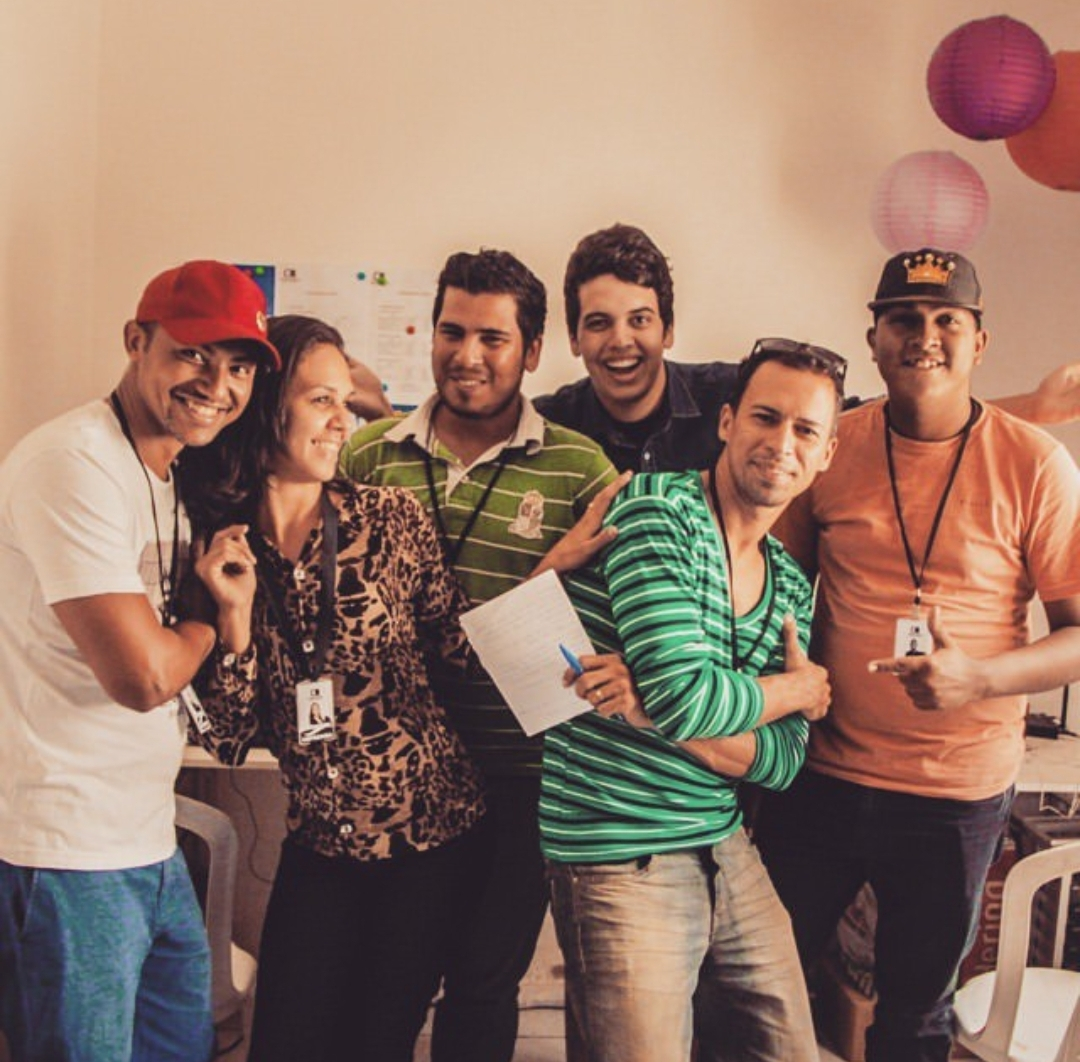
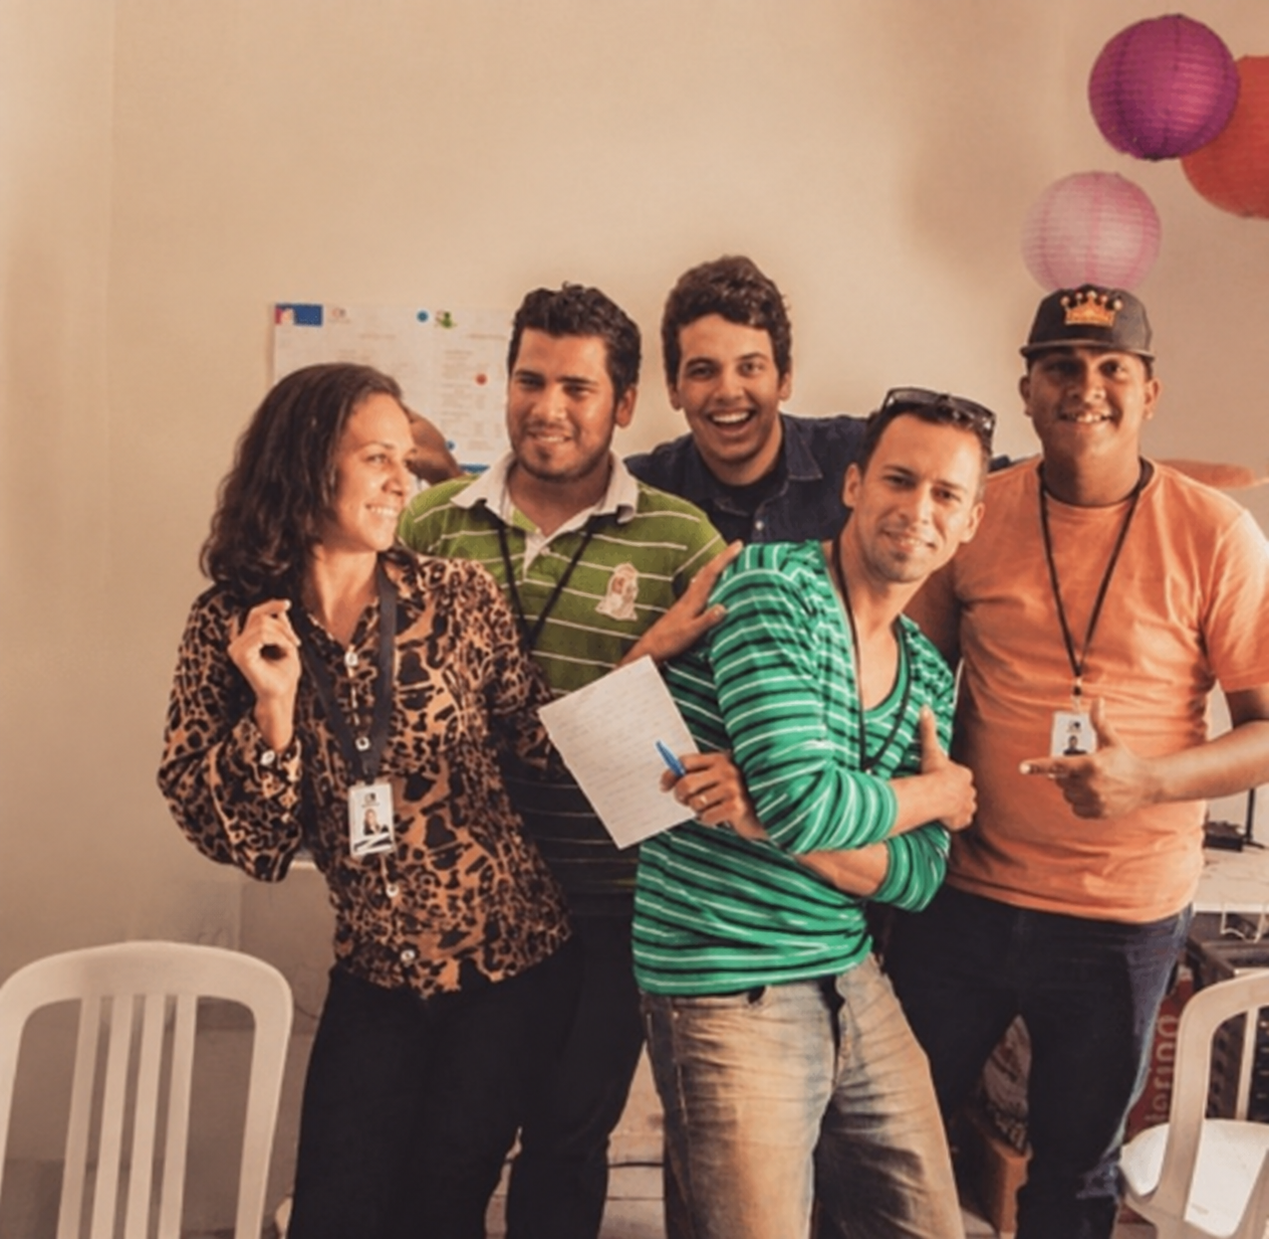
Add files via upload

diff --git a/style-fixed.css b/style-fixed.css
@@ -5,6 +5,7 @@
   --muted: #777873;
   --line: #b9b8b1;
   --soft: #e8e7e2;
+  --electric-blue: #5ea8ff;
 }
 
 * { box-sizing: border-box; margin: 0; padding: 0; }
@@ -22,7 +23,7 @@ h2 { font-size: clamp(64px, 9vw, 144px); }
 .kicker.dark { color: #777; }
 .section { position: relative; overflow: hidden; padding: 110px 0; }
 .section::before { position: absolute; top: 24px; right: 48px; width: 7px; height: 7px; background: var(--ink); content: ''; }
-.reveal { opacity: 0; transform: translateY(24px); transition: opacity .7s ease, transform .7s ease; }
+.reveal { opacity: 0; transform: translateY(24px); transition: opacity 1.7s ease, transform 1.7s cubic-bezier(.19, 1, .22, 1); }
 .reveal.in { opacity: 1; transform: none; }
 
 /* ---------- Efeitos de entrada ---------- */
@@ -32,13 +33,15 @@ h2 { font-size: clamp(64px, 9vw, 144px); }
 @keyframes scrollPulse { 0% { transform: scaleX(0); transform-origin: left; } 50% { transform: scaleX(1); transform-origin: left; } 51% { transform-origin: right; } 100% { transform: scaleX(0); transform-origin: right; } }
 
 /* Letras do título entram uma a uma (hero) */
-.hero h1 .char { display: inline-block; opacity: 0; transform: translateY(115%) rotate(6deg); animation: charIn .9s cubic-bezier(.19, 1, .22, 1) forwards; }
+.hero h1 > span .char { display: inline-block; opacity: 0; transform: translateY(115%) rotate(6deg); animation: charIn 2.2s cubic-bezier(.19, 1, .22, 1) forwards; }
 @keyframes charIn { to { opacity: 1; transform: none; } }
+.hero h1 em.typing::after { display: inline-block; width: 3px; height: .78em; margin-left: .12em; background: currentColor; content: ''; vertical-align: -.04em; animation: caretBlink .8s steps(1, end) infinite; }
+@keyframes caretBlink { 50% { opacity: 0; } }
 /* As linhas precisam de overflow para o reveal de cada letra */
 .hero h1 em, .hero h1 > span { display: block; overflow: hidden; }
 .hero h1 em { padding-bottom: .06em; }
 
-.hero-content > .kicker, .hero-copy, .text-link { opacity: 0; animation: fadeUp .9s ease forwards; }
+.hero-content > .kicker, .hero-copy, .text-link { opacity: 0; animation: fadeUp 2.3s ease forwards; }
 .hero-content > .kicker { animation-delay: .1s; }
 .hero-copy { animation-delay: .95s; }
 .text-link { animation-delay: 1.1s; }
@@ -47,7 +50,7 @@ h2 { font-size: clamp(64px, 9vw, 144px); }
 
 /* Títulos com reveal por linha (aplicado via JS) */
 .line-mask { display: block; overflow: hidden; }
-.line-mask > span { display: block; transform: translateY(105%); transition: transform .85s cubic-bezier(.19, 1, .22, 1); }
+.line-mask > span { display: block; transform: translateY(105%); transition: transform 1.7s cubic-bezier(.19, 1, .22, 1); }
 .line-mask.in > span { transform: none; }
 
 /* Imagens com zoom-out na entrada */
@@ -65,7 +68,7 @@ h2 { font-size: clamp(64px, 9vw, 144px); }
 .about-gallery .history-photo:nth-child(3) img { transition-delay: .24s; }
 
 /* Linhas da timeline entram em sequência */
-.timeline article { opacity: 0; transform: translateX(18px); transition: opacity .6s ease, transform .6s ease; }
+.timeline article { opacity: 0; transform: translateX(18px); transition: opacity 1.5s ease, transform 1.5s cubic-bezier(.19, 1, .22, 1); }
 .timeline article.in { opacity: 1; transform: none; transition-delay: calc(var(--i, 0) * 90ms); }
 
 /* Atraso em cascata dentro de grades */
@@ -79,6 +82,10 @@ h2 { font-size: clamp(64px, 9vw, 144px); }
 .header-cta:hover::after, .section-cta:hover::after { transform: none; }
 .text-link, .section-cta { transition: border-color .3s, color .3s; }
 .text-link:hover, .section-cta:hover { border-color: var(--white); }
+
+h1 em, h2 em { color: var(--electric-blue); text-shadow: 0 0 18px rgba(94, 168, 255, .18); }
+.hero h1 em { text-shadow: 0 0 24px rgba(94, 168, 255, .28); }
+.about-copy strong, .paid-traffic-copy strong { color: var(--electric-blue); }
 @media (prefers-reduced-motion: reduce) {
   .hero h1 .char, .hero-content > .kicker, .hero-copy, .text-link, .hero-square, .scroll-line { animation: none; opacity: 1; transform: none; }
   .line-mask > span { transition: none; transform: none; }
@@ -91,9 +98,16 @@ header.scrolled { background: rgba(13,13,13,.94); backdrop-filter: blur(12px); }
 .logo-mark { width: 53px; height: 53px; object-fit: cover; }
 .navlinks { display: flex; gap: 25px; }
 .navlink, .header-cta { color: var(--white); font-size: 10px; letter-spacing: .12em; text-transform: uppercase; }
-.navlink { position: relative; }
+.navlink { position: relative; border: 0; background: transparent; cursor: pointer; font-family: inherit; }
 .navlink::after { position: absolute; right: 100%; bottom: -8px; left: 0; height: 1px; background: var(--white); content: ''; transition: right .25s; }
-.navlink:hover::after { right: 0; }
+.navlink:hover::after, .nav-group:focus-within > .navlink::after { right: 0; }
+.navlink span { margin-left: 5px; color: var(--electric-blue); font-size: 13px; transition: transform .3s; }
+.nav-group { position: relative; }
+.nav-group:focus-within .navlink span { transform: rotate(45deg); }
+.nav-dropdown { position: absolute; top: calc(100% + 22px); left: -18px; display: grid; min-width: 190px; border-top: 1px solid var(--electric-blue); background: rgba(13, 13, 13, .97); box-shadow: 0 18px 34px rgba(0,0,0,.2); opacity: 0; pointer-events: none; transform: translateY(-8px); transition: opacity .35s ease, transform .35s ease; }
+.nav-group:hover .nav-dropdown, .nav-group:focus-within .nav-dropdown { opacity: 1; pointer-events: auto; transform: none; }
+.nav-dropdown a { padding: 13px 18px; color: #d8d8d4; font-size: 10px; letter-spacing: .12em; text-transform: uppercase; transition: background .25s, color .25s; }
+.nav-dropdown a:hover, .nav-dropdown a:focus-visible { background: #202b38; color: var(--electric-blue); }
 .header-cta { border: 1px solid rgba(255,255,255,.45); padding: 13px 16px; }
 .header-cta span, .text-link span, .contact-link span { margin-left: 10px; font-size: 16px; }
 .hamburger { display: none; border: 0; background: none; padding: 8px; }
@@ -239,6 +253,11 @@ header.scrolled { background: rgba(13,13,13,.94); backdrop-filter: blur(12px); }
 .history-photo:nth-child(even) { transform: translateY(72px); }
 .history-photo img { width: 100%; height: 100%; object-fit: cover; filter: grayscale(1); transition: filter .4s, transform .5s; }
 .history-photo:hover img { filter: grayscale(0); transform: scale(1.03); }
+@media (max-width: 560px) {
+  .history-gallery { grid-template-columns: 1fr; gap: 14px; margin-top: 28px; padding-bottom: 18px; }
+  .history-photo { width: 100%; margin: 0; }
+  .history-photo:nth-child(even) { transform: translateX(16px); width: calc(100% - 16px); }
+}
 
 #historia .history-gallery {
   display: grid;
@@ -321,7 +340,13 @@ footer { border-top: 1px solid #333; background: var(--black); color: var(--whit
   .hamburger { display: block; }
   .mobile-menu { position: fixed; inset: 0; z-index: 19; display: flex; flex-direction: column; justify-content: flex-start; overflow-y: auto; transform: translateY(-100%); background: var(--black); padding: 86px 40px 40px; transition: transform .4s; }
   .mobile-menu.open { transform: none; }
-  .mobile-menu a { flex: 0 0 auto; border-bottom: 1px solid #333; padding: 13px 0; color: var(--white); font: 500 48px 'Barlow Condensed'; text-transform: uppercase; }
+  .mobile-menu a, .mobile-nav-group summary { flex: 0 0 auto; border-bottom: 1px solid #333; padding: 13px 0; color: var(--white); font: 500 48px 'Barlow Condensed'; text-transform: uppercase; }
+  .mobile-nav-group { border-bottom: 1px solid #333; }
+  .mobile-nav-group summary { display: flex; justify-content: space-between; cursor: pointer; list-style: none; }
+  .mobile-nav-group summary::-webkit-details-marker { display: none; }
+  .mobile-nav-group summary span { color: var(--electric-blue); font: 400 28px 'DM Sans'; transition: transform .3s; }
+  .mobile-nav-group[open] summary span { transform: rotate(45deg); }
+  .mobile-nav-group a { display: block; border-bottom: 0; padding: 8px 0 8px 18px; color: #aaa; font-size: 29px; }
   .mobile-menu .close-btn { position: absolute; top: 23px; right: 28px; border: 0; background: none; color: var(--white); font-size: 38px; }
   .mobile-menu .mobile-cta { width: max-content; margin-top: 30px; border: 1px solid #555; padding: 16px; font: 600 12px 'DM Sans'; letter-spacing: .18em; }
 
@@ -397,4 +422,78 @@ footer { border-top: 1px solid #333; background: var(--black); color: var(--whit
   .legal-service-grid { grid-template-columns: 1fr; }
   .musical-service-grid { grid-template-columns: 1fr; }
   .legal-closing { font-size: 22px; }
+}
+
+/* Refinamento visual: eixo, ritmo e leitura consistente em todas as seções. */
+:root {
+  --content-width: 1220px;
+  --gutter: 44px;
+  --title-dark: #161616;
+  --title-light: #f4f3ef;
+  --title-gray: #8b8b88;
+}
+
+.wrap, .header-inner, .hero-content { width: min(var(--content-width), 100%); }
+.wrap, .header-inner { padding-right: var(--gutter); padding-left: var(--gutter); }
+.section { padding-top: 96px; padding-bottom: 96px; }
+.section::before { top: 30px; right: var(--gutter); }
+.section-intro, .section-head { gap: 64px; margin-bottom: 48px; }
+.about-layout, .founder-layout, .history-layout, .contact-layout { column-gap: 72px; }
+
+/* O brilho percorre os títulos, exceto ASSESSORIA no hero. */
+h1 em, h2 em {
+  color: transparent;
+  background-image: linear-gradient(90deg, var(--title-gray) 0%, var(--title-gray) 48%, var(--electric-blue) 49.5%, var(--title-gray) 50.5%, var(--title-gray) 100%);
+  background-size: 200% 100%;
+  background-position: 100% 0;
+  background-clip: text;
+  -webkit-background-clip: text;
+  -webkit-text-fill-color: transparent;
+  text-shadow: 2px 3px 0 rgba(0, 0, 0, .14), 0 0 12px rgba(94, 168, 255, .08);
+  animation: titleLightSweep 7s ease-in-out infinite;
+}
+
+.hero h1 em {
+  color: var(--title-gray);
+  background: none;
+  -webkit-text-fill-color: currentColor;
+  text-shadow: 2px 3px 0 rgba(0, 0, 0, .14);
+  animation: none;
+}
+@keyframes titleLightSweep {
+  0%, 16% { background-position: 100% 0; }
+  52%, 68% { background-position: 0 0; }
+  100% { background-position: 100% 0; }
+}
+
+.navlinks { align-items: center; gap: 30px; }
+.nav-group { display: flex; align-items: center; height: 84px; }
+.nav-dropdown { left: 50%; width: 220px; min-width: 220px; transform: translate(-50%, -8px); }
+.nav-group:hover .nav-dropdown, .nav-group:focus-within .nav-dropdown { transform: translate(-50%, 0); }
+.nav-dropdown a { min-height: 42px; padding: 14px 20px; }
+.header-cta { white-space: nowrap; }
+
+.reveal, .line-mask > span, .timeline article { transition-duration: 2.6s; }
+.section-intro > p, .about-copy, .legal-overview, .musical-overview, .contact-layout > div { opacity: 0; transform: translateY(22px); transition: opacity 2.6s ease, transform 2.6s cubic-bezier(.19, 1, .22, 1); }
+.section-intro > p.in, .about-copy.in, .legal-overview.in, .musical-overview.in, .contact-layout > div.in { opacity: 1; transform: none; }
+
+@media (max-width: 900px) {
+  :root { --gutter: 28px; }
+  .section { padding-top: 82px; padding-bottom: 82px; }
+  .section-intro, .section-head { gap: 34px; }
+  .nav-group { display: block; height: auto; }
+}
+
+@media (max-width: 560px) {
+  :root { --gutter: 20px; }
+  .section { padding-top: 68px; padding-bottom: 68px; }
+  .section::before { right: var(--gutter); }
+  .section-intro, .section-head { margin-bottom: 40px; }
+  .mobile-menu a, .mobile-nav-group summary { min-height: 54px; padding: 11px 0; }
+  .mobile-nav-group a { min-height: 0; padding: 8px 0 8px 16px; }
+}
+
+@media (prefers-reduced-motion: reduce) {
+  h1 em, h2 em { animation: none; background-position: 50% 0; }
+  .section-intro > p, .about-copy, .legal-overview, .musical-overview, .contact-layout > div { opacity: 1; transform: none; transition: none; }
 }

diff --git a/index.html b/index.html
@@ -28,15 +28,25 @@
     <a href="#top" class="logo" aria-label="CD Assessoria - início"><img src="logo/logo1-removebg-preview.png" alt="CD Assessoria" class="logo-mark" width="58" height="58"></a>
     <nav class="navlinks" aria-label="Navegação principal">
       <a href="#top" class="navlink">Início</a>
-      <a href="#historia" class="navlink">História</a>
-      <a href="#fundador" class="navlink">Quem conduz</a>
-      <a href="#servicos" class="navlink">Serviços</a>
-      <a href="#redes-sociais" class="navlink">Redes sociais</a>
-      <a href="#juridico" class="navlink">Jurídico</a>
-      <a href="#producao-musical" class="navlink">Produção Musical</a>
+      <div class="nav-group">
+        <button class="navlink nav-trigger" type="button" aria-expanded="false" aria-controls="aboutMenu">Sobre <span aria-hidden="true">+</span></button>
+        <div class="nav-dropdown" id="aboutMenu">
+          <a href="#historia">História</a>
+          <a href="#fundador">Quem conduz</a>
+          <a href="#equipe">Equipe</a>
+        </div>
+      </div>
+      <div class="nav-group">
+        <button class="navlink nav-trigger" type="button" aria-expanded="false" aria-controls="workMenu">Atuação <span aria-hidden="true">+</span></button>
+        <div class="nav-dropdown" id="workMenu">
+          <a href="#servicos">Serviços</a>
+          <a href="#redes-sociais">Redes Sociais</a>
+          <a href="#juridico">Jurídico</a>
+          <a href="#producao-musical">Produção Musical</a>
+        </div>
+      </div>
       <a href="#projetos" class="navlink">Projetos</a>
       <a href="#parcerias" class="navlink">Parcerias</a>
-      <a href="#equipe" class="navlink">Equipe</a>
       <a href="#contato" class="navlink">Contato</a>
     </nav>
     <div class="header-right">
@@ -48,15 +58,21 @@
 <nav class="mobile-menu" id="mobileMenu" aria-label="Menu mobile">
   <button class="close-btn" id="closeMenuBtn" aria-label="Fechar menu">×</button>
   <a href="#top">Início</a>
-  <a href="#historia">História</a>
-  <a href="#fundador">Quem conduz</a>
-  <a href="#servicos">Serviços</a>
-  <a href="#redes-sociais">Redes sociais</a>
-  <a href="#juridico">Jurídico</a>
-  <a href="#producao-musical">Produção Musical</a>
+  <details class="mobile-nav-group">
+    <summary>Sobre <span aria-hidden="true">+</span></summary>
+    <a href="#historia">História</a>
+    <a href="#fundador">Quem conduz</a>
+    <a href="#equipe">Equipe</a>
+  </details>
+  <details class="mobile-nav-group">
+    <summary>Atuação <span aria-hidden="true">+</span></summary>
+    <a href="#servicos">Serviços</a>
+    <a href="#redes-sociais">Redes Sociais</a>
+    <a href="#juridico">Jurídico</a>
+    <a href="#producao-musical">Produção Musical</a>
+  </details>
   <a href="#projetos">Projetos</a>
   <a href="#parcerias">Parcerias</a>
-  <a href="#equipe">Equipe</a>
   <a href="#contato">Contato</a>
   <a href="https://wa.me/558184679901" target="_blank" rel="noopener" class="mobile-cta">Fale conosco ↗</a>
 </nav>

diff --git a/script.js b/script.js
@@ -36,11 +36,18 @@ mobileMenu.querySelectorAll('a').forEach(a => a.addEventListener('click', () => 
   hamburgerBtn.setAttribute('aria-expanded', 'false');
 }));
 
-// Garante que a âncora seja aplicada depois que o menu sair da tela.
-mobileMenu.querySelectorAll('a[href^="#"]').forEach(a => a.addEventListener('click', () => {
-  const target = document.querySelector(a.getAttribute('href'));
-  if (target) target.scrollIntoView({ behavior: 'auto', block: 'start' });
+// Fecha os grupos desktop ao clicar fora e preserva o scroll suave nativo.
+document.querySelectorAll('.nav-trigger').forEach(trigger => trigger.addEventListener('click', () => {
+  const isOpen = trigger.getAttribute('aria-expanded') === 'true';
+  document.querySelectorAll('.nav-trigger').forEach(item => item.setAttribute('aria-expanded', 'false'));
+  trigger.setAttribute('aria-expanded', String(!isOpen));
 }));
+
+document.addEventListener('click', event => {
+  if (!event.target.closest('.nav-group')) {
+    document.querySelectorAll('.nav-trigger').forEach(trigger => trigger.setAttribute('aria-expanded', 'false'));
+  }
+});
 
 // Hero: divide o título em letras animadas uma a uma
 (function splitHeroTitle() {
@@ -48,7 +55,7 @@ mobileMenu.querySelectorAll('a[href^="#"]').forEach(a => a.addEventListener('cli
   if (!h1) return;
   const reduce = window.matchMedia('(prefers-reduced-motion: reduce)').matches;
   let index = 0;
-  h1.querySelectorAll('span, em').forEach(line => {
+  h1.querySelectorAll(':scope > span').forEach(line => {
     const text = line.textContent;
     line.textContent = '';
     [...text].forEach(char => {
@@ -62,6 +69,19 @@ mobileMenu.querySelectorAll('a[href^="#"]').forEach(a => a.addEventListener('cli
       index++;
       line.appendChild(span);
     });
+  });
+
+  const typingLine = h1.querySelector(':scope > em');
+  if (!typingLine) return;
+  const typingText = typingLine.textContent;
+  typingLine.setAttribute('aria-label', typingText);
+  if (reduce) return;
+  typingLine.textContent = '';
+  typingLine.classList.add('typing');
+  [...typingText].forEach((char, charIndex) => {
+    window.setTimeout(() => {
+      typingLine.textContent += char;
+    }, 800 + charIndex * 180);
   });
 })();
 
@@ -90,6 +110,7 @@ const io = new IntersectionObserver((entries) => {
 document.querySelectorAll('.team-grid .team-card').forEach((el, i) => el.style.setProperty('--i', i));
 document.querySelectorAll('.project-grid .project').forEach((el, i) => el.style.setProperty('--i', i));
 document.querySelectorAll('.timeline article').forEach((el, i) => el.style.setProperty('--i', i));
+document.querySelectorAll('.section-intro > p, .about-copy, .legal-overview, .musical-overview, .contact-layout > div').forEach(el => el.classList.add('reveal'));
 
 document.querySelectorAll('.reveal, .line-mask, .timeline article').forEach(el => {
   if (reduceMotion) { el.classList.add('in'); return; }
